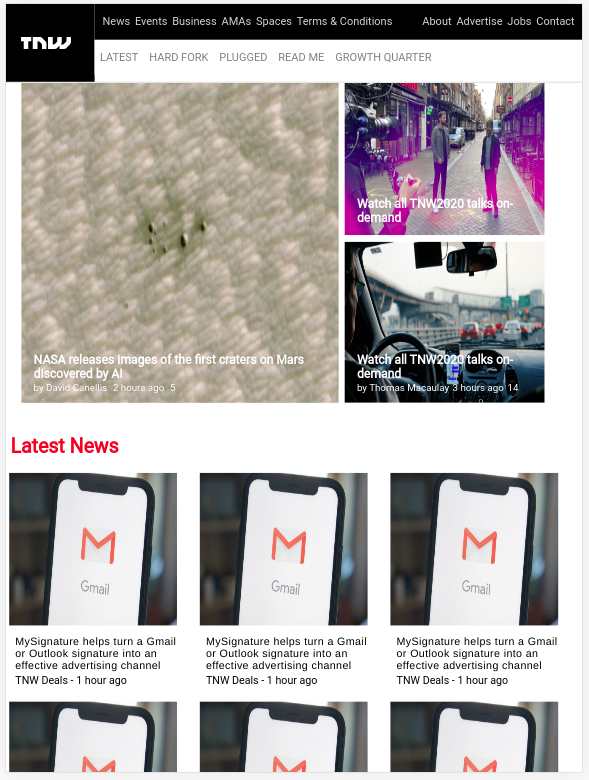
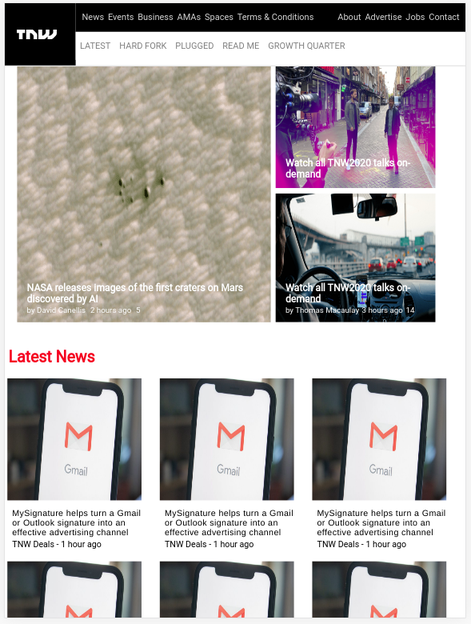
Update README screenshots.

diff --git a/README.md b/README.md
@@ -7,8 +7,11 @@
 A clone of The Next Web landing page made for the Microverse FullStack program.
 This is a responsive site and will scale as needed to different devices.
 
-![screenshot](screenshot.png)
+![desktop](screenshots/desktop.png)
 
+![tablet](screenshots/tablet.png)
+
+![mobile](screenshots/mobile.png)
 
 ## Built With
 
